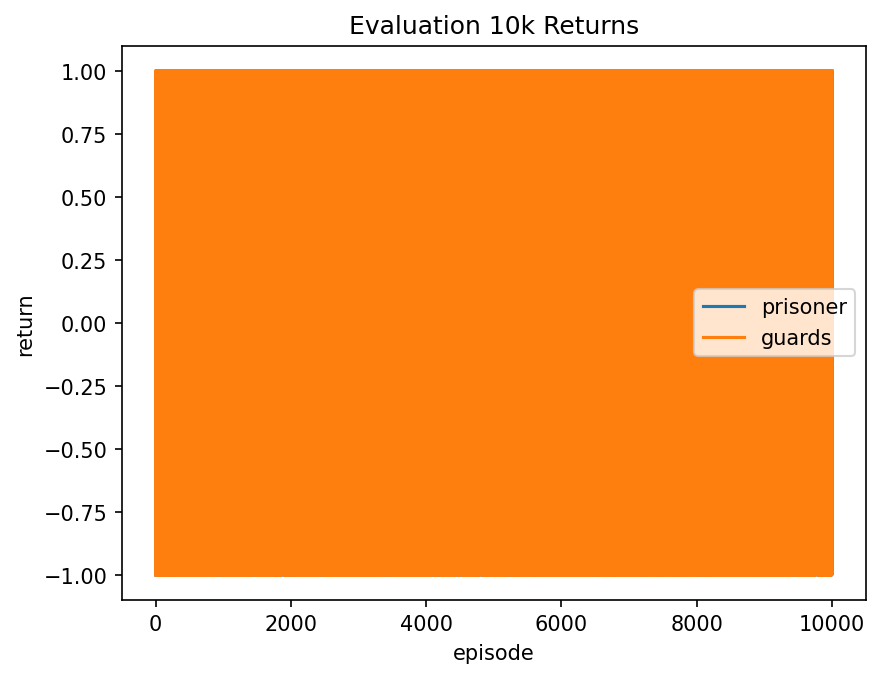
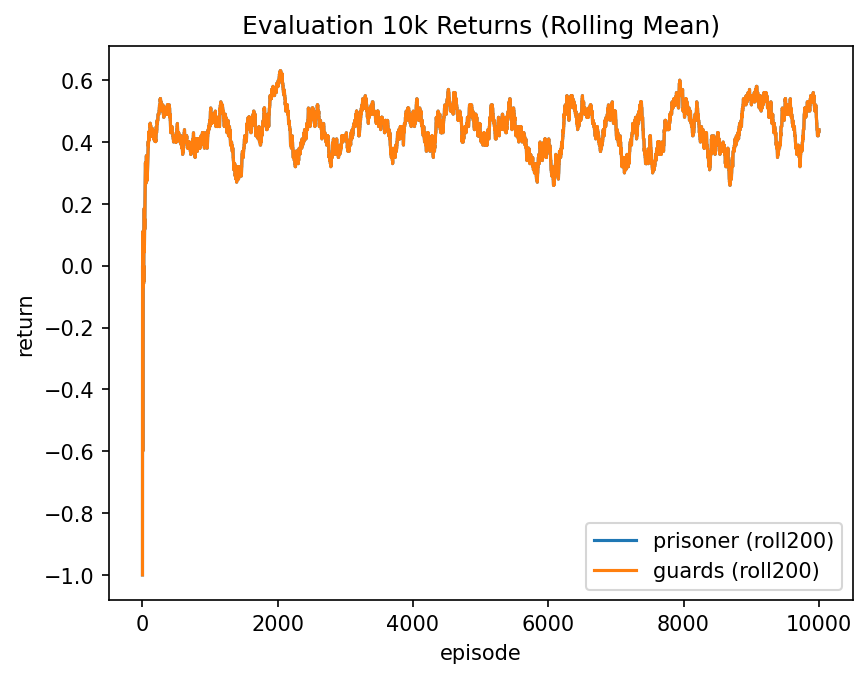
selam

diff --git a/src/plot_metrics.py b/src/plot_metrics.py
@@ -39,20 +39,16 @@ def plot_train_loss(log_dir, run_name, out_path):
 
     df = pd.read_csv(path)
 
-    cols = [c for c in df.columns if c.startswith("train/")]
-    if not cols:
-        print("No train/* columns found in", path)
+    if "train/loss" not in df.columns:
+        print("No train/loss column found in", path)
         return
 
     plt.figure()
-    for c in cols:
-        plt.plot(df["time/total_timesteps"], df[c], label=c)
+    plt.plot(df["time/total_timesteps"], df["train/loss"])
 
     plt.xlabel("timesteps")
     plt.ylabel("loss")
     plt.title(f"Train Loss - {run_name}")
-    plt.legend()
-
     full_out = os.path.join(BASE_DIR, out_path)
     os.makedirs(os.path.dirname(full_out), exist_ok=True)
     plt.savefig(full_out, dpi=150, bbox_inches="tight")
@@ -71,8 +67,12 @@ def plot_eval_rewards(eval_csv, out_path):
     df = pd.read_csv(path)
 
     plt.figure()
-    plt.plot(df["episode"], df["return_prisoner"], label="prisoner")
-    plt.plot
+    # Returns are often binary (-1/1). Plot a rolling mean to show trend.
+    window = 200
+    rp = df["return_prisoner"].rolling(window=window, min_periods=1).mean()
+    rg = df["return_guards_mean"].rolling(window=window, min_periods=1).mean()
+    plt.plot(df["episode"], rp, label=f"prisoner (roll{window})")
+    plt.plot(df["episode"], rg, label=f"guards (roll{window})")
 
 
 import os
@@ -116,20 +116,16 @@ def plot_train_loss(log_dir, run_name, out_path):
 
     df = pd.read_csv(path)
 
-    cols = [c for c in df.columns if c.startswith("train/")]
-    if not cols:
-        print("No train/* columns found in", path)
+    if "train/loss" not in df.columns:
+        print("No train/loss column found in", path)
         return
 
     plt.figure()
-    for c in cols:
-        plt.plot(df["time/total_timesteps"], df[c], label=c)
+    plt.plot(df["time/total_timesteps"], df["train/loss"])
 
     plt.xlabel("timesteps")
     plt.ylabel("loss")
     plt.title(f"Train Loss - {run_name}")
-    plt.legend()
-
     full_out = os.path.join(BASE_DIR, out_path)
     os.makedirs(os.path.dirname(full_out), exist_ok=True)
     plt.savefig(full_out, dpi=150, bbox_inches="tight")
@@ -148,12 +144,238 @@ def plot_eval_rewards(eval_csv, out_path):
     df = pd.read_csv(path)
 
     plt.figure()
-    plt.plot(df["episode"], df["return_prisoner"], label="prisoner")
-    plt.plot(df["episode"], df["return_guards_mean"], label="guards")
+    # Returns are often binary (-1/1). Plot a rolling mean to show trend.
+    window = 200
+    rp = df["return_prisoner"].rolling(window=window, min_periods=1).mean()
+    rg = df["return_guards_mean"].rolling(window=window, min_periods=1).mean()
+    plt.plot(df["episode"], rp, label=f"prisoner (roll{window})")
+    plt.plot(df["episode"], rg, label=f"guards (roll{window})")
     plt.xlabel("episode")
     plt.ylabel("return")
-    plt.title("Evaluation 10k Returns")
+    plt.title("Evaluation 10k Returns (Rolling Mean)")
     plt.legend()
+
+    full_out = os.path.join(BASE_DIR, out_path)
+    os.makedirs(os.path.dirname(full_out), exist_ok=True)
+    plt.savefig(full_out, dpi=150, bbox_inches="tight")
+    plt.close()
+
+    print("Saved:", full_out)
+
+
+def plot_eval_winrate(eval_csv, out_path):
+    path = os.path.join(BASE_DIR, eval_csv)
+
+    if not os.path.exists(path):
+        print("❌ Not found:", path)
+        return
+
+    df = pd.read_csv(path)
+
+    if "outcome" not in df.columns:
+        print("No outcome column found in", path)
+        return
+
+    # Win rate based on outcomes. Adjust if your env uses different labels.
+    prisoner_win = (df["outcome"] == "escaped").astype(float)
+    guards_win = (df["outcome"] == "captured").astype(float)
+
+    window = 200
+    pw = prisoner_win.rolling(window=window, min_periods=1).mean()
+    gw = guards_win.rolling(window=window, min_periods=1).mean()
+
+    plt.figure()
+    plt.plot(df["episode"], pw, label=f"prisoner win rate (roll{window})")
+    plt.plot(df["episode"], gw, label=f"guards win rate (roll{window})")
+    plt.xlabel("episode")
+    plt.ylabel("win rate")
+    plt.ylim(0.0, 1.0)
+    plt.title("Evaluation 10k Win Rate (Rolling Mean)")
+    plt.legend()
+
+    full_out = os.path.join(BASE_DIR, out_path)
+    os.makedirs(os.path.dirname(full_out), exist_ok=True)
+    plt.savefig(full_out, dpi=150, bbox_inches="tight")
+    plt.close()
+
+    print("Saved:", full_out)
+
+
+def plot_eval_outcome_counts(eval_csv, out_path):
+    path = os.path.join(BASE_DIR, eval_csv)
+
+    if not os.path.exists(path):
+        print("❌ Not found:", path)
+        return
+
+    df = pd.read_csv(path)
+    if "outcome" not in df.columns:
+        print("No outcome column found in", path)
+        return
+
+    counts = df["outcome"].value_counts()
+
+    plt.figure()
+    plt.bar(counts.index.astype(str), counts.values)
+    plt.xlabel("outcome")
+    plt.ylabel("count")
+    plt.title("Evaluation Outcome Counts")
+
+    full_out = os.path.join(BASE_DIR, out_path)
+    os.makedirs(os.path.dirname(full_out), exist_ok=True)
+    plt.savefig(full_out, dpi=150, bbox_inches="tight")
+    plt.close()
+
+    print("Saved:", full_out)
+
+
+def plot_eval_episode_length(eval_csv, out_path):
+    path = os.path.join(BASE_DIR, eval_csv)
+
+    if not os.path.exists(path):
+        print("❌ Not found:", path)
+        return
+
+    df = pd.read_csv(path)
+    if "length" not in df.columns:
+        print("No length column found in", path)
+        return
+
+    window = 200
+    length_rm = df["length"].rolling(window=window, min_periods=1).mean()
+
+    plt.figure()
+    plt.plot(df["episode"], length_rm, label=f"episode length (roll{window})")
+    plt.xlabel("episode")
+    plt.ylabel("steps")
+    plt.title("Evaluation Episode Length (Rolling Mean)")
+    plt.legend()
+
+    full_out = os.path.join(BASE_DIR, out_path)
+    os.makedirs(os.path.dirname(full_out), exist_ok=True)
+    plt.savefig(full_out, dpi=150, bbox_inches="tight")
+    plt.close()
+
+    print("Saved:", full_out)
+
+
+def plot_train_rewards_smoothed(log_dir, run_name, out_path):
+    path = os.path.join(BASE_DIR, log_dir, run_name, "episode_returns.csv")
+
+    if not os.path.exists(path):
+        print("❌ Not found:", path)
+        return
+
+    df = pd.read_csv(path)
+    window = 200
+    rm = df["ep_return"].rolling(window=window, min_periods=1).mean()
+
+    plt.figure()
+    plt.plot(df["timesteps"], rm, label=f"ep_return (roll{window})")
+    plt.xlabel("timesteps")
+    plt.ylabel("episode return")
+    plt.title(f"Train Episode Return (Rolling Mean) - {run_name}")
+    plt.legend()
+
+    full_out = os.path.join(BASE_DIR, out_path)
+    os.makedirs(os.path.dirname(full_out), exist_ok=True)
+    plt.savefig(full_out, dpi=150, bbox_inches="tight")
+    plt.close()
+
+    print("Saved:", full_out)
+
+
+def plot_ppo_diagnostics(log_dir, run_name, out_path):
+    path = os.path.join(BASE_DIR, log_dir, run_name, "progress.csv")
+
+    if not os.path.exists(path):
+        print("❌ Not found:", path)
+        return
+
+    df = pd.read_csv(path)
+    x = df.get("time/total_timesteps")
+    if x is None:
+        print("No time/total_timesteps column found in", path)
+        return
+
+    series = [
+        ("train/approx_kl", "approx_kl"),
+        ("train/clip_fraction", "clip_fraction"),
+        ("train/entropy_loss", "entropy_loss"),
+        ("train/value_loss", "value_loss"),
+        ("train/explained_variance", "explained_variance"),
+        ("train/policy_gradient_loss", "policy_grad_loss"),
+    ]
+
+    plt.figure(figsize=(12, 8))
+    rows, cols = 2, 3
+    plot_idx = 1
+    for col, title in series:
+        if col not in df.columns:
+            continue
+        ax = plt.subplot(rows, cols, plot_idx)
+        ax.plot(x, df[col])
+        ax.set_title(title)
+        ax.set_xlabel("timesteps")
+        plot_idx += 1
+
+    if plot_idx == 1:
+        print("No PPO diagnostic columns found in", path)
+        return
+
+    plt.suptitle(f"PPO Diagnostics - {run_name}")
+    plt.tight_layout(rect=[0, 0, 1, 0.95])
+
+    full_out = os.path.join(BASE_DIR, out_path)
+    os.makedirs(os.path.dirname(full_out), exist_ok=True)
+    plt.savefig(full_out, dpi=150, bbox_inches="tight")
+    plt.close()
+
+    print("Saved:", full_out)
+
+
+def plot_train_eval_link(log_dir, run_name, eval_csv, out_path):
+    train_path = os.path.join(BASE_DIR, log_dir, run_name, "episode_returns.csv")
+    eval_path = os.path.join(BASE_DIR, eval_csv)
+
+    if not os.path.exists(train_path):
+        print("❌ Not found:", train_path)
+        return
+    if not os.path.exists(eval_path):
+        print("❌ Not found:", eval_path)
+        return
+
+    train_df = pd.read_csv(train_path)
+    eval_df = pd.read_csv(eval_path)
+
+    window = 200
+    train_rm = train_df["ep_return"].rolling(window=window, min_periods=1).mean()
+
+    # Overall eval win rates (single points at end of training).
+    prisoner_win = (eval_df.get("outcome") == "escaped").mean()
+    guards_win = (eval_df.get("outcome") == "captured").mean()
+
+    last_t = float(train_df["timesteps"].iloc[-1])
+
+    plt.figure()
+    plt.plot(train_df["timesteps"], train_rm, label=f"train ep_return (roll{window})")
+    plt.scatter([last_t], [train_rm.iloc[-1]], marker="o", color="black", label="last train")
+
+    ax = plt.gca()
+    ax2 = ax.twinx()
+    ax2.scatter([last_t], [prisoner_win], marker="^", color="green", label="eval prisoner win")
+    ax2.scatter([last_t], [guards_win], marker="s", color="red", label="eval guards win")
+    ax2.set_ylabel("eval win rate")
+    ax2.set_ylim(0.0, 1.0)
+
+    ax.set_xlabel("timesteps")
+    ax.set_ylabel("train episode return")
+    plt.title(f"Train vs Eval Link - {run_name}")
+
+    # Combine legends
+    lines, labels = ax.get_legend_handles_labels()
+    lines2, labels2 = ax2.get_legend_handles_labels()
+    ax.legend(lines + lines2, labels + labels2, loc="best")
 
     full_out = os.path.join(BASE_DIR, out_path)
     os.makedirs(os.path.dirname(full_out), exist_ok=True)
@@ -178,6 +400,18 @@ def main():
     plot_train_loss(args.log_dir, args.run_prisoner, "plots/train_loss_prisoner.png")
 
     plot_eval_rewards(args.eval_csv, "plots/eval_10k_returns.png")
+    plot_eval_winrate(args.eval_csv, "plots/eval_10k_winrate.png")
+    plot_eval_outcome_counts(args.eval_csv, "plots/eval_10k_outcomes.png")
+    plot_eval_episode_length(args.eval_csv, "plots/eval_10k_episode_length.png")
+
+    plot_train_rewards_smoothed(args.log_dir, args.run_guards, "plots/train_reward_guards_smoothed.png")
+    plot_train_rewards_smoothed(args.log_dir, args.run_prisoner, "plots/train_reward_prisoner_smoothed.png")
+
+    plot_ppo_diagnostics(args.log_dir, args.run_guards, "plots/ppo_diagnostics_guards.png")
+    plot_ppo_diagnostics(args.log_dir, args.run_prisoner, "plots/ppo_diagnostics_prisoner.png")
+
+    plot_train_eval_link(args.log_dir, args.run_guards, args.eval_csv, "plots/train_eval_link_guards.png")
+    plot_train_eval_link(args.log_dir, args.run_prisoner, args.eval_csv, "plots/train_eval_link_prisoner.png")
 
 
 if __name__ == "__main__":
